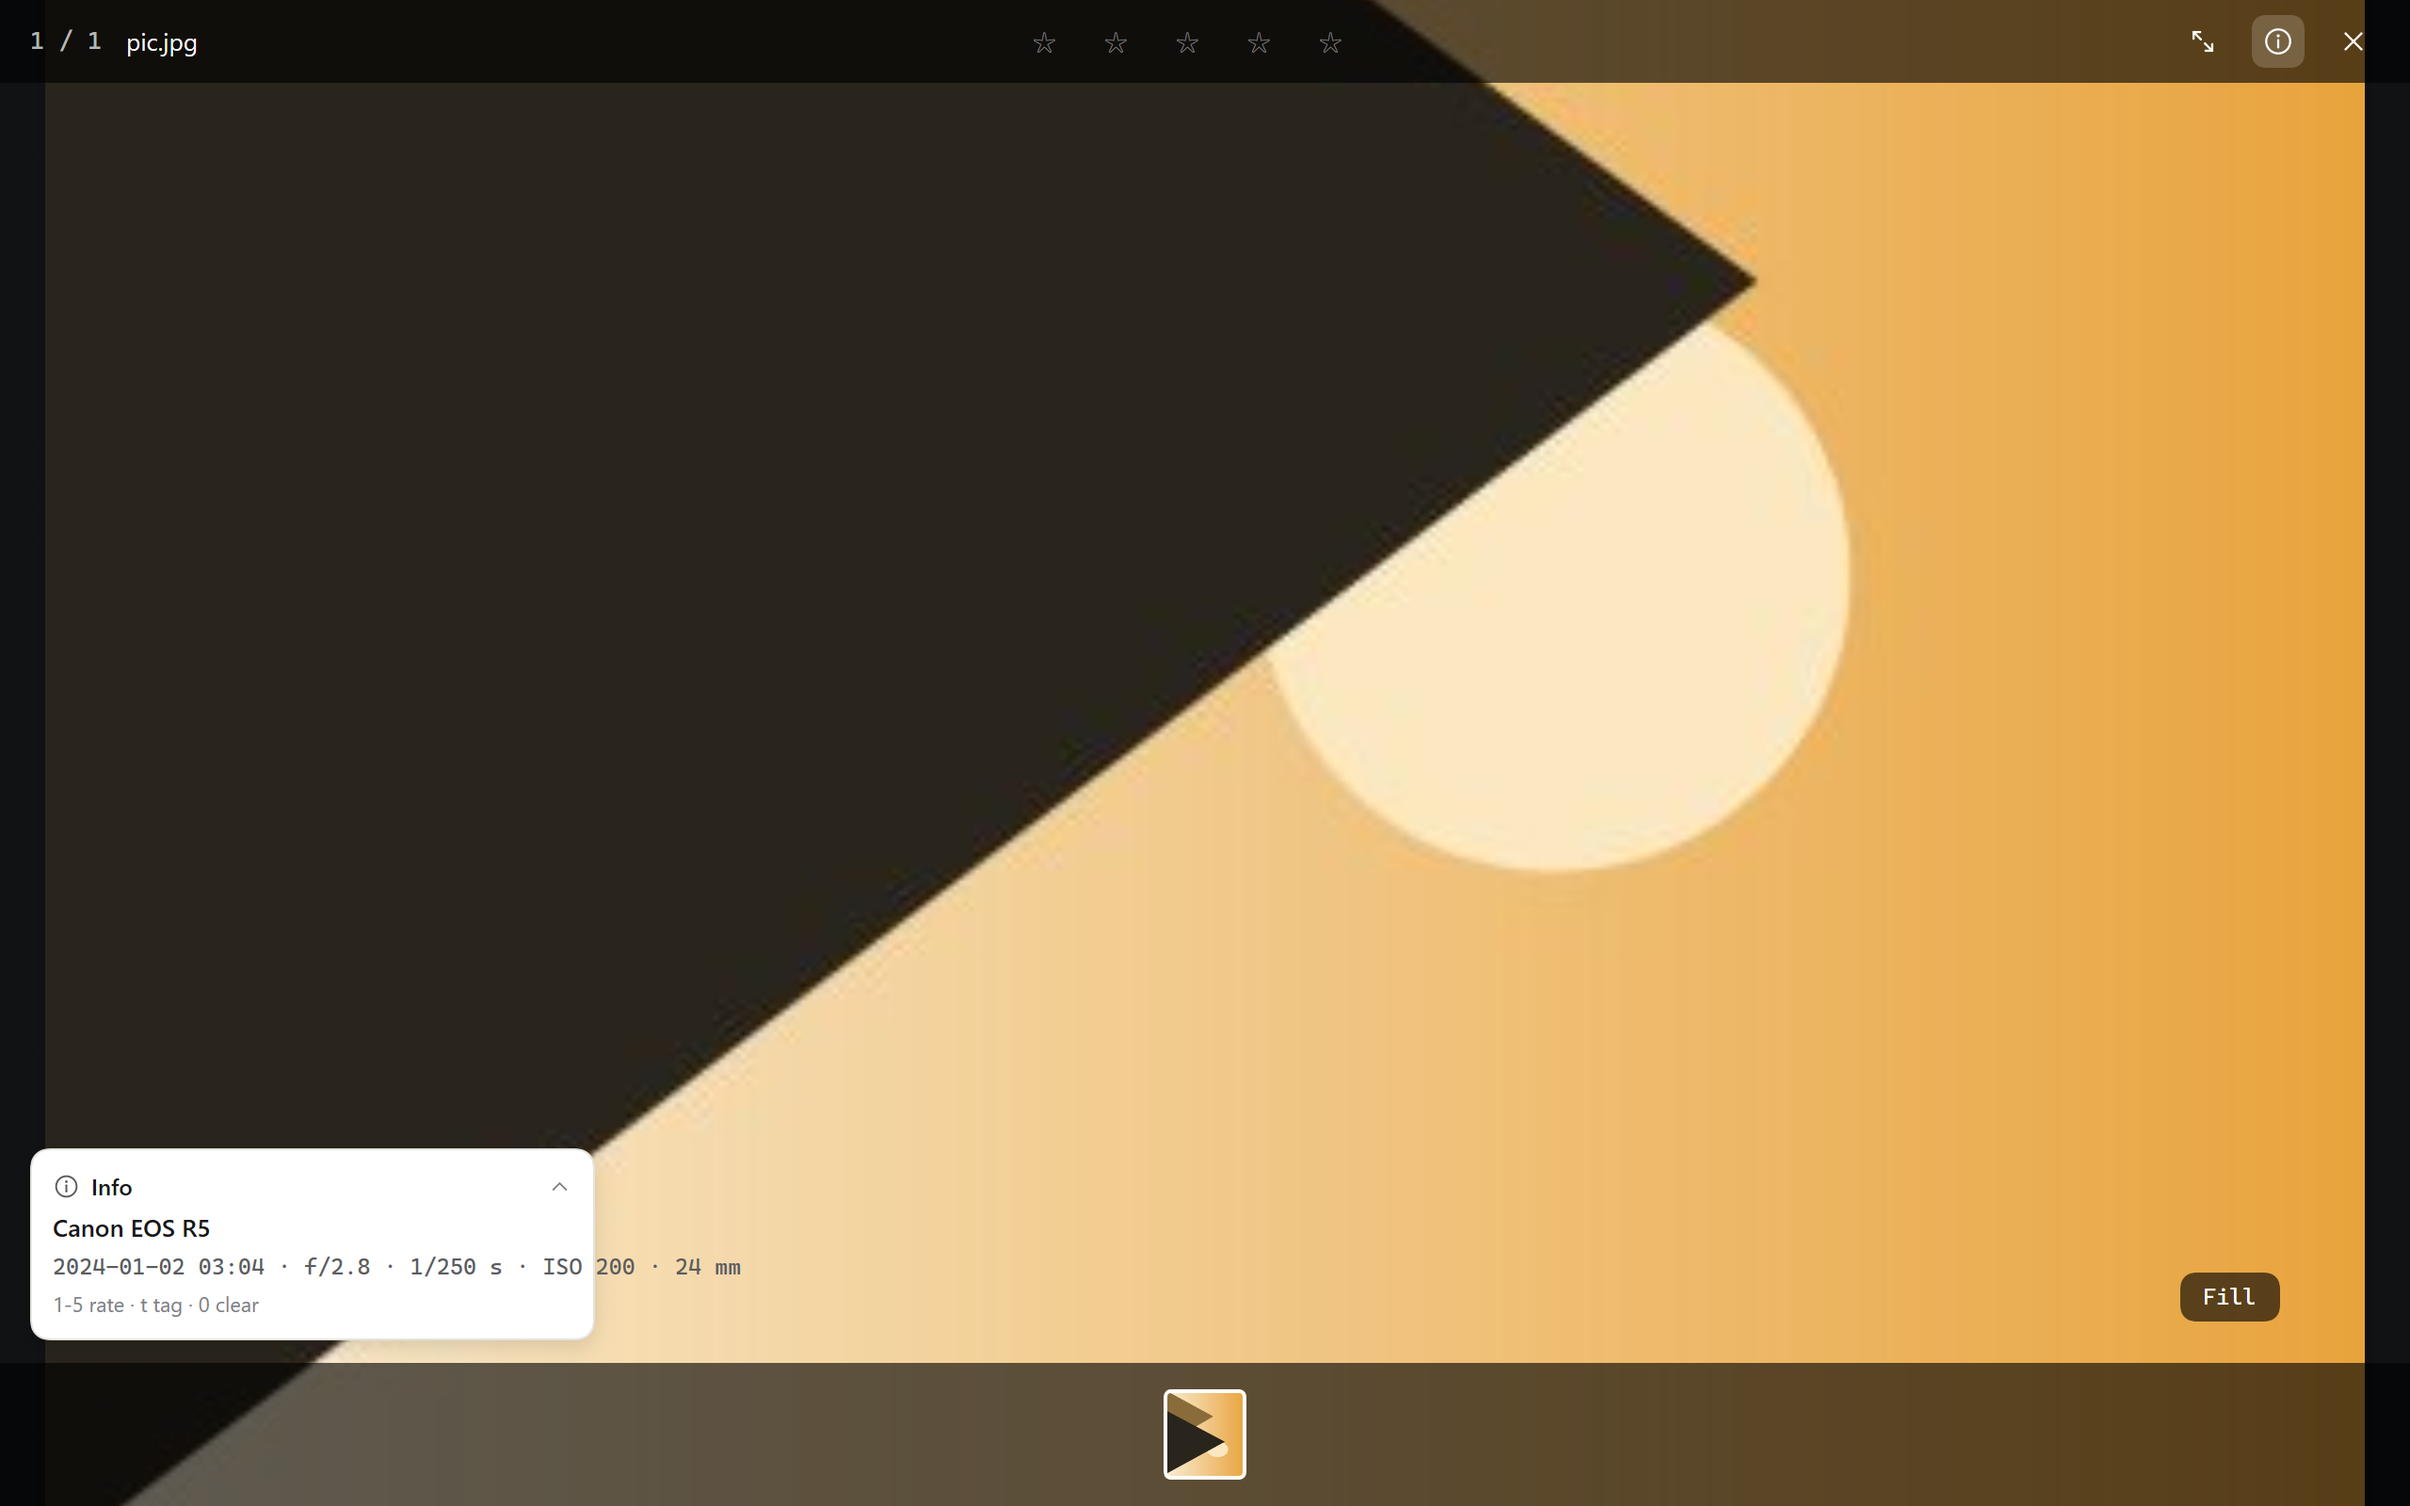
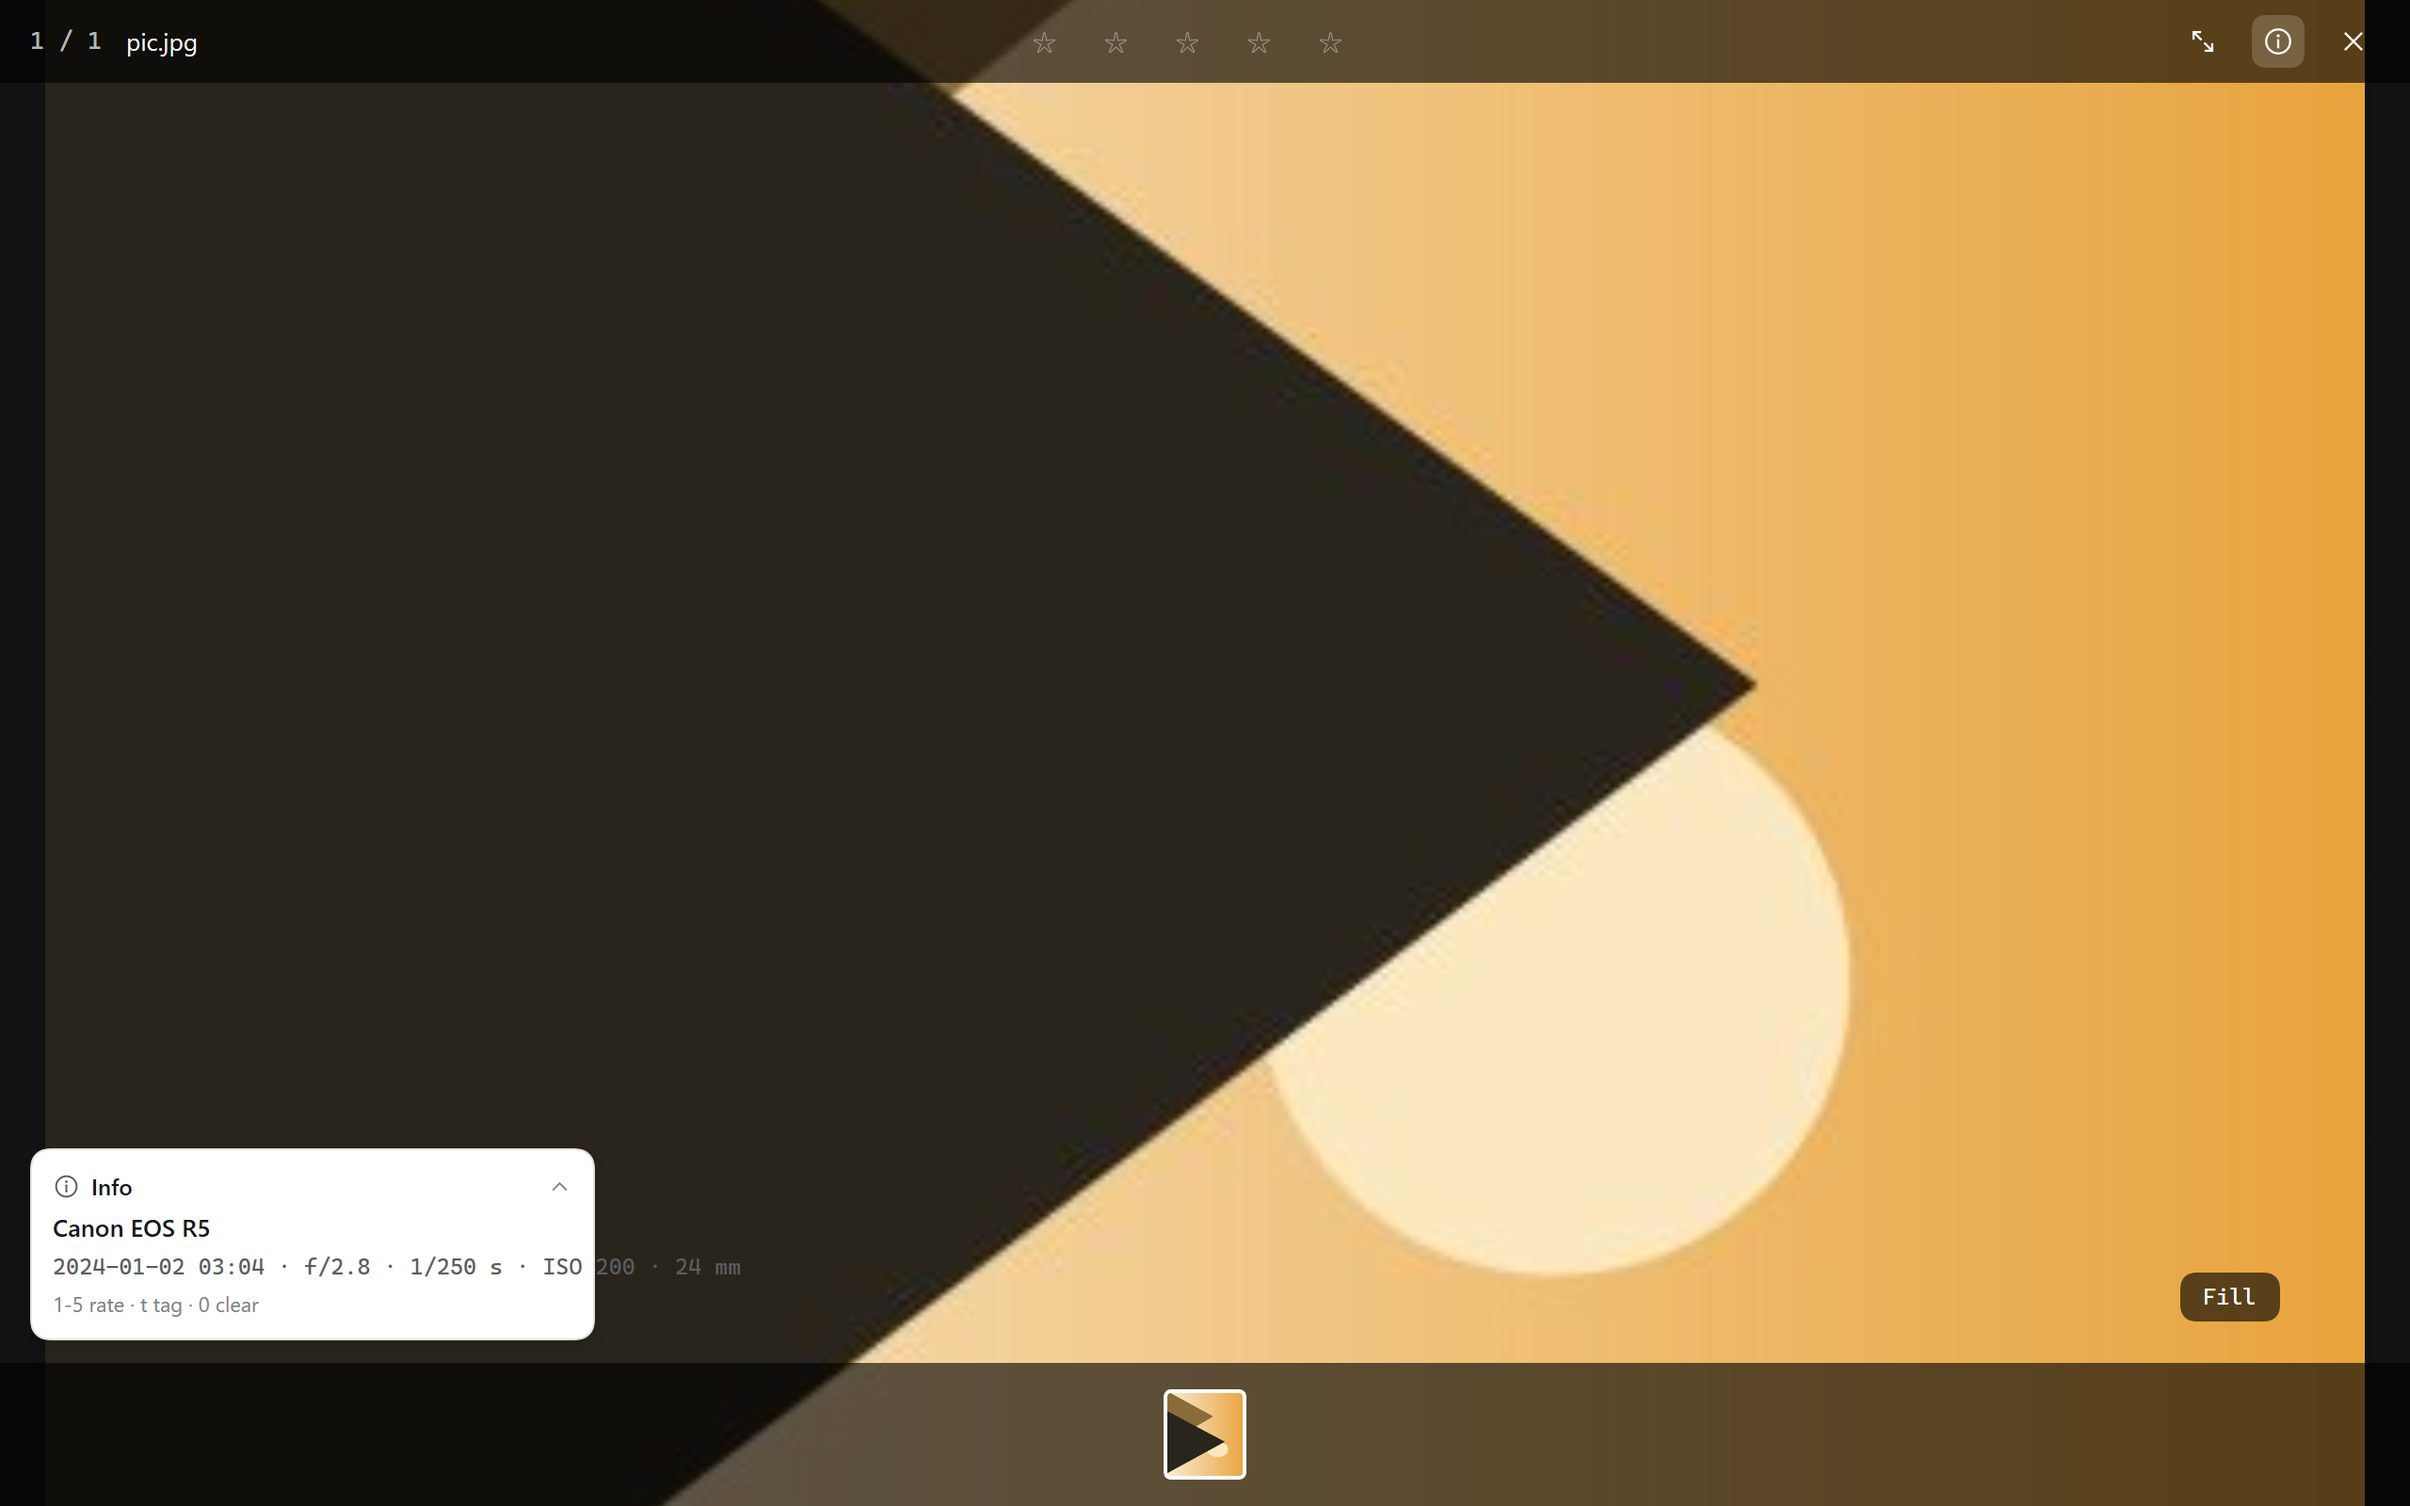
fix: the look holds the pointer's point, works from any zoom, and the right button fits
Three reports on the held-button look, and all three were real.

It zoomed about the middle, not the pointer
- The press began, the anchor was placed under the pointer, and the next
  frame's drag path called `dragged()`, which cleared the anchor. From
  there the pan was the reader's, so the zoom went about the room's
  middle -- and the whole point of the look is that the point under the
  pointer stays under it.
- A drag now moves the anchor's *mouse* point instead of writing the pan:
  the picture point that was under the pointer is still meant to be under
  the pointer, and the pointer has moved. Writing the pan would fight the
  derivation that runs every frame and the anchor would win. After the
  overflow clamp the anchor's mouse point is written back from the pan, so
  a drag held against an edge cannot accumulate a pan the edge refuses.

It did nothing once the wheel had zoomed
- The left button only looked from the fit, on the reasoning that at 1:1
  the left button is the drag's. That left the wheel's own states -- 2.5x,
  or any zoom that is nobody's named mode -- with no look at all, which is
  exactly where the question "how big is it really" is most worth asking.
- Both buttons look from any mode now. The left button shares its press
  with the drag, so it waits: 150 ms of stillness and it is a look, any
  movement and it is a drag (and that press never becomes a look after).

Letting go put it back in the wrong place
[…]

Changed region(s): [[0.0625, 0.0, 0.7812, 1.0]]

diff --git a/docs/redesign/01-ux.md b/docs/redesign/01-ux.md
@@ -136,7 +136,7 @@
 | `⌫` | 移入回收站并前进到下一张 |
 | 滚轮 / 拖动 | 缩放（锚定指针）/ 平移 |
 | 按住左键 | 临时 1:1（以指针处为锚），按住期间可以拖动 |
-| 按住右键 | 临时铺满整个房间，松手回到原来的大小 |
+| 按住右键 | 临时【适应窗口】，松手回到原来的大小 |
 
 ### 导航栏（树有焦点时）
 
@@ -158,7 +158,7 @@
 | 滚轮 / 两指 | 垂直滚动（惯性由平台给） | 缩放（1.15^notch，上限 8×），以指针为锚 |
 | 拖动 | 空白：框选；图块上：单击/加选/连选 | 照片大于房间时平移；按住左键时在 1:1 上平移 |
 | 双击 | 打开大图 | 适应 ⇄ 1:1 |
-| 按住 | 图块上：拖动 = 框选 | 左键 = 临时 1:1（可拖），右键 = 临时铺满 |
+| 按住 | 图块上：拖动 = 框选 | 左键 = 临时 1:1（可拖），右键 = 临时适应 |
 | 悬停 | 图块立即出现 ⋯ chip 与文件名条（tooltip 另等 0.5s） | 顶部条与胶片条常驻 |
 | 指针光标 | 图块上 = 手形；导航栏右缘 = `resize_left_right` | 可拖动时 = 手形 |
 
@@ -198,26 +198,31 @@
 ### 按住不放的临时视图
 
 键和 chip 是“改主意”：按一下，模式就变了。手上还有一个更轻的问题——**这张到底糊不糊**，
-或者**铺满会是什么样**——问完就不想要了。所以两个鼠标键按住时给一个临时模式，
+或者**放回窗口里是什么样**——问完就不想要了。所以两个鼠标键按住时给一个临时视图，
 松手原样退回：
 
 | 按住 | 看到 | 锚 |
 |---|---|---|
 | 左键 | 1:1 | 指针下的那一点（和滚轮一样） |
-| 右键 | 铺满房间 | 画面中心 |
+| 右键 | 适应窗口 | 画面中心 |
 
-规则三条：
+规则四条：
 
-- **左键只在 `fit` 时是“看”**。已经在 1:1 或自由缩放时，左键是**拖动**——那时候
-  再给它一个 1:1 视图，是把已有的东西拿掉再放回来，纯属碍事。右键任何模式都是“看铺满”。
-- **按住期间可以拖**。左键 1:1 时画面通常大于房间，手带着画面走是自然的，锚点因此
-  在按下那一刻定住，之后由拖动接管（`zoom.dragged`）。
+- **两个键在任何模式都生效**，包括滚轮缩到 2.5× 这种没有名字的状态。要问的是“原尺寸
+  什么样、放回窗口什么样”，这个问题和滚轮把画面留在哪儿无关。
+- **左键先要“按住不动”**。左键同时是拖动的手柄，一次按下到底是“看”还是“拖”，
+  要等指针动没动才知道：按下后静止 150ms（`peek_delay`）才进入查看，一动就是拖动，
+  这次按下就不再变成查看。右键没有第二个用途，按下即看。
+- **按住期间可以拖**。左键 1:1 时画面通常大于房间，手带着画面走是自然的；拖动移动的
+  是锚点的屏幕位置（`anchor_mouse`），不是 pan——锚点反解 pan 是每帧都跑的，直接写
+  pan 会被它覆盖回去，写锚点才是让“那一点”跟着手走。
 - **指针位置只在按下时判一次**。1:1 的画面可能比 fit 还小（小图），它会在手下缩走；
   每帧重新判断“指针还在图上吗”会在第一帧就结束这次查看。所以 peek 一旦成立，
   就只等键松开。
 
-退回时回的是**按下前的模式**，不是 fit：从铺满按住左键，松手还是铺满。
-临时模式不进 chip、不进 settings——它是一次提问，不是一次决定。
+退回时回的是**按下前的那一帧**，不是 fit：模式、滚轮的 zoom 目标、锚点、pan 全部
+存进 `Peek` 再放回来。从 2.5× 按住左键，松手还是 2.5×，位置也一样。
+临时视图不进 chip、不进 settings——它是一次提问，不是一次决定。
 
 ## 7. 流程分镜
 

diff --git a/docs/redesign/03-components.md b/docs/redesign/03-components.md
@@ -233,7 +233,7 @@ div (fixed, sizeFull, bg=room)          ← 固定深色房间：亮房也是 #1
 │   收起：一枚 「Info」 小卡片（info.circle + 文字），点击或 I 展开
 │   展开（I）：相机/镜头行（13）· EXIF 行（12 mono）· 星级 · 标签 chips + 添加 · 键位提示
 │   底：panel + 1px line + 阴影 —— 唯一不透明卡片，因为它可能压住照片任意部分
-│   按住左键：临时 1:1（指针处为锚，可拖）；按住右键：临时铺满（见 01 §6）
+│   按住左键（静止 150ms）：临时 1:1（指针处为锚，可拖）；按住右键：临时适应窗口（见 01 §6）
 └── 缩放控件（右下，胶片条上方）
     圆角 8 砂底：文字「适应窗口」/「铺满」/「100%」/「240%」
     点击按 fit → fill → 1:1 → fit 循环；`Z` 是 fit ⟷ 1:1，`F` 是 fill ⟷ 1:1；
